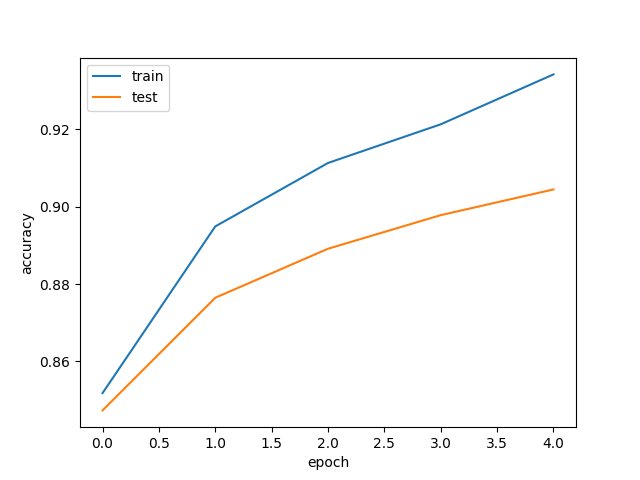
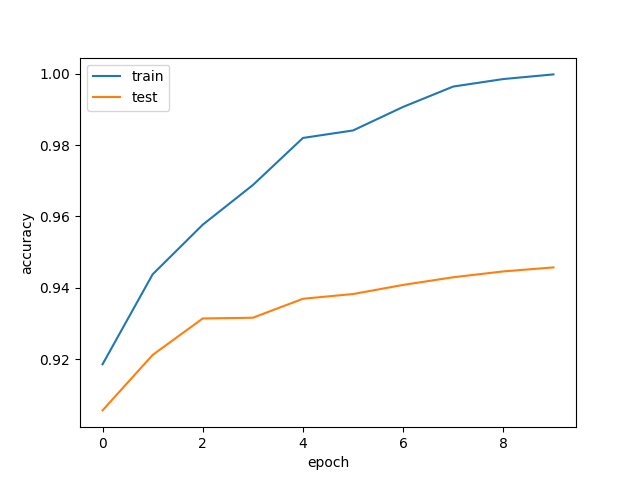
fix

diff --git a/src/jaxkan/train_mnist.py b/src/jaxkan/train_mnist.py
@@ -9,12 +9,12 @@ class_num = 10
 sample_per_class = 1000
 input_dim = 28 * 28
 batch_size = 64
-epoch_num = 5
+epoch_num = 10
 lr = 0.003
 
 
 basis_fn = jax.nn.silu
-width_list = [input_dim, 10, 10, class_num]
+width_list = [input_dim, 64, class_num]
 grid_size = 5  # fine-grainedness of grid. more accurate when larger
 k = 3  # order of spline
 grid_range = [-1, 1]

diff --git a/README.md b/README.md
@@ -13,15 +13,6 @@ The original implementation of KANs in PyTorch is [here](https://github.com/Kind
 
 ```bash
 $ rye run python3 src/jaxkan/train_mnist.py
-param_size 64320
-data loaded
-input_range 0.0 1.0
-epoch 0 loss: 0.416 train_accuracy: 0.852 test_accuracy: 0.847
-epoch 1 loss: 0.373 train_accuracy: 0.895 test_accuracy: 0.876
-epoch 2 loss: 0.315 train_accuracy: 0.911 test_accuracy: 0.889
-epoch 3 loss: 0.331 train_accuracy: 0.921 test_accuracy: 0.898
-epoch 4 loss: 0.320 train_accuracy: 0.934 test_accuracy: 0.904
-...
 ```
 ## Loss dynamics
 ![loss](./mnist_loss.png)
